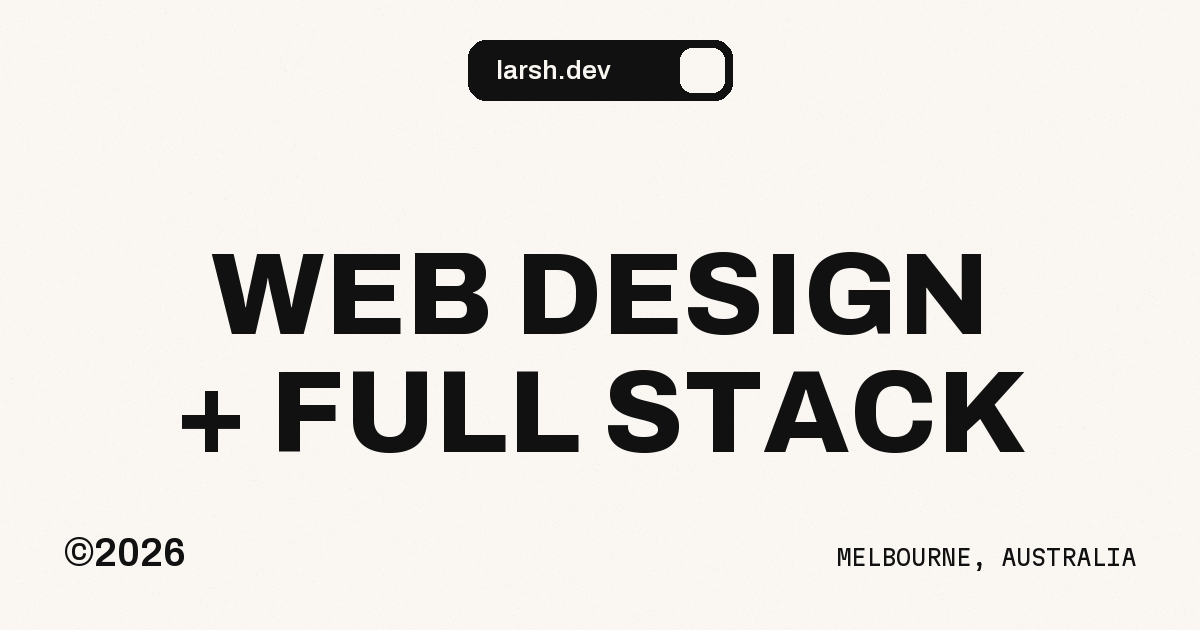
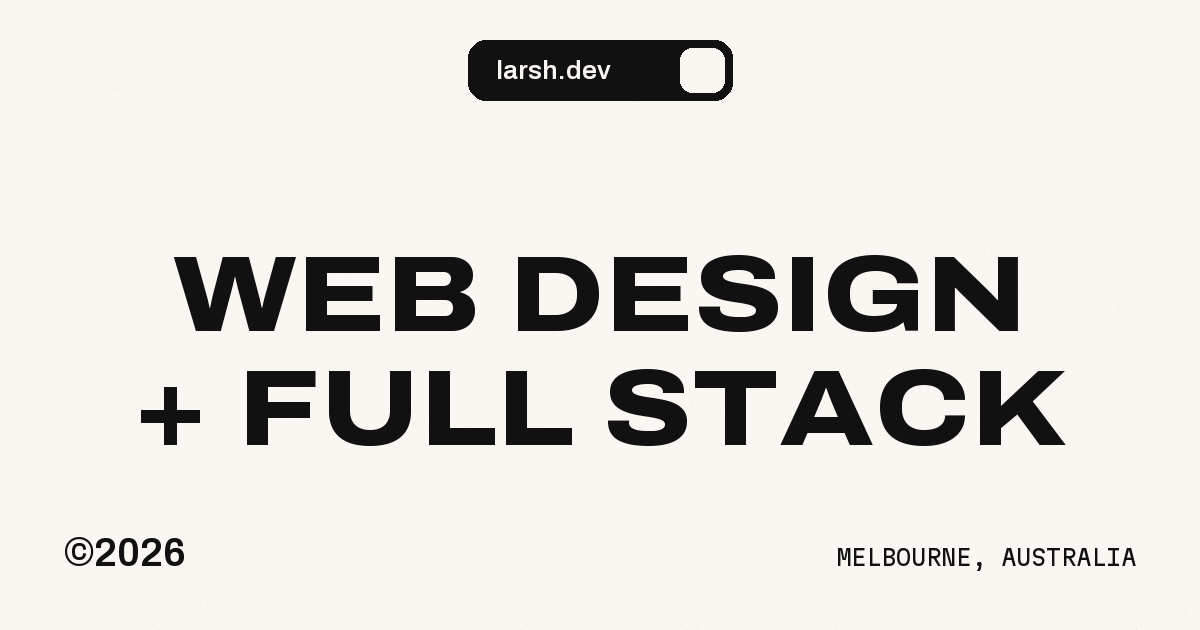
Extend hero to Archivo 118%; hamburger nav, ink scrollbar, chip button on project pages

Changed region(s): [[0.1233, 0.573, 0.8942, 0.7238], [0.1233, 0.3921, 0.8633, 0.5429]]

diff --git a/index.html b/index.html
@@ -33,6 +33,14 @@
 *{margin:0;padding:0;box-sizing:border-box}
 html{scroll-behavior:auto}
 html,body{background:var(--paper)}
+/* page scrollbar: ink pill like the nav, rounded + slightly inset via a transparent
+   border (background-clip keeps the fill inside it, so the border reads as a gap).
+   Scoped to the viewport (html) so inner textareas / code blocks keep default bars.
+   Webkit/Chromium/Safari; Firefox gets colour only (no radius/inset). */
+html::-webkit-scrollbar{width:20px}
+html::-webkit-scrollbar-track{background:transparent}
+html::-webkit-scrollbar-thumb{background:var(--ink);border-radius:12px;border:4px solid transparent;background-clip:padding-box}
+html{scrollbar-color:var(--ink) transparent}
 body{
   font-family:'Archivo',ui-sans-serif,system-ui,sans-serif;
   color:var(--ink);
@@ -70,15 +78,17 @@ a{color:inherit;text-decoration:none}
 .brand{color:var(--paper);font-weight:600;font-size:20px;letter-spacing:-.02em}
 .navbtn{width:44px;height:44px;border:0;border-radius:12px;background:var(--paper);
   color:var(--ink);cursor:pointer;display:grid;place-items:center;font:inherit}
-.navbtn .ic{display:block;width:14px;height:14px;position:relative}
-.navbtn .ic i{position:absolute;left:50%;top:50%;width:3px;height:3px;border-radius:50%;
-  background:var(--ink);translate:-50% -50%;transition:all .3s var(--ease)}
-.navbtn .ic i:nth-child(1){margin-left:-6px}
-.navbtn .ic i:nth-child(3){margin-left:6px}
-.nav.open .navbtn .ic i{width:14px;height:2px;border-radius:1px;margin:0}
-.nav.open .navbtn .ic i:nth-child(1){rotate:45deg}
+/* hamburger → X. Three stacked bars; on open the middle fades and the outer two
+   slide to centre and cross. Only transform/opacity animate, so it stays smooth. */
+.navbtn .ic{display:block;width:16px;height:12px;position:relative}
+.navbtn .ic i{position:absolute;left:0;width:16px;height:2px;border-radius:1px;
+  background:var(--ink);transition:transform .32s var(--ease),opacity .18s var(--ease)}
+.navbtn .ic i:nth-child(1){top:0}
+.navbtn .ic i:nth-child(2){top:5px}
+.navbtn .ic i:nth-child(3){top:10px}
+.nav.open .navbtn .ic i:nth-child(1){transform:translateY(5px) rotate(45deg)}
 .nav.open .navbtn .ic i:nth-child(2){opacity:0}
-.nav.open .navbtn .ic i:nth-child(3){rotate:-45deg}
+.nav.open .navbtn .ic i:nth-child(3){transform:translateY(-5px) rotate(-45deg)}
 .menu{padding:14px 28px 0}
 .menu a.mlink{position:relative;display:flex;align-items:baseline;gap:16px;padding:5px 0;
   color:var(--paper);font-weight:600;font-size:29px;letter-spacing:-.01em;
@@ -109,7 +119,11 @@ a{color:inherit;text-decoration:none}
 .hero{position:relative;min-height:100svh;margin-top:-100svh;
   display:flex;flex-direction:column;justify-content:center;align-items:center}
 .display-wrap{position:relative;margin-top:-6svh}
-.display{color:#fff;mix-blend-mode:difference;text-align:center;
+/* hero display face = Archivo instanced at wdth 118% (wider than Majd's default 100%
+   for more horizontal command), subset to the hero glyphs (~2.5KB). Static single
+   weight — the canvas draws a fixed weight anyway, so nothing dynamic is lost. */
+@font-face{font-family:'Archivo Ext';src:url(/vendor/fonts/archivo-hero-118.woff2) format('woff2');font-weight:800;font-display:block}
+.display{color:#fff;mix-blend-mode:difference;text-align:center;font-family:'Archivo Ext',sans-serif;
   font-weight:800;font-size:clamp(49px,10.3vw,148px);line-height:.92;
   letter-spacing:-.025em;user-select:none;
   transform:translateZ(0)} /* Safari: promote the blended element to its own layer */
@@ -678,7 +692,7 @@ void main(){
       const c2 = t2.getContext('2d');
       const fs = parseFloat(getComputedStyle(display).fontSize) * dpr;
       c2.fillStyle = '#fff';
-      c2.font = `800 ${fs}px Archivo, sans-serif`;
+      c2.font = `800 ${fs}px 'Archivo Ext', sans-serif`;
       c2.textAlign = 'center'; c2.textBaseline = 'alphabetic';
       if ('letterSpacing' in c2) c2.letterSpacing = (fs * -.025).toFixed(1) + 'px';
       const lh = fs * .92;

diff --git a/site.css b/site.css
@@ -14,6 +14,14 @@
 *{margin:0;padding:0;box-sizing:border-box}
 html{scroll-behavior:auto}
 html,body{background:var(--paper)}
+/* page scrollbar: ink pill like the nav, rounded + slightly inset via a transparent
+   border (background-clip keeps the fill inside it, so the border reads as a gap).
+   Scoped to the viewport (html) so inner textareas / code blocks keep default bars.
+   Webkit/Chromium/Safari; Firefox gets colour only (no radius/inset). */
+html::-webkit-scrollbar{width:20px}
+html::-webkit-scrollbar-track{background:transparent}
+html::-webkit-scrollbar-thumb{background:var(--ink);border-radius:12px;border:4px solid transparent;background-clip:padding-box}
+html{scrollbar-color:var(--ink) transparent}
 body{font-family:'Archivo',ui-sans-serif,system-ui,sans-serif;color:var(--ink);
   -webkit-font-smoothing:antialiased;overflow-x:clip}
 .mono{font-family:'Martian Mono',ui-monospace,monospace}
@@ -39,15 +47,17 @@ a{color:inherit;text-decoration:none}
 .brand{color:var(--paper);font-weight:600;font-size:20px;letter-spacing:-.02em}
 .navbtn{width:44px;height:44px;border:0;border-radius:12px;background:var(--paper);
   color:var(--ink);cursor:pointer;display:grid;place-items:center;font:inherit}
-.navbtn .ic{display:block;width:14px;height:14px;position:relative}
-.navbtn .ic i{position:absolute;left:50%;top:50%;width:3px;height:3px;border-radius:50%;
-  background:var(--ink);translate:-50% -50%;transition:all .3s var(--ease)}
-.navbtn .ic i:nth-child(1){margin-left:-6px}
-.navbtn .ic i:nth-child(3){margin-left:6px}
-.nav.open .navbtn .ic i{width:14px;height:2px;border-radius:1px;margin:0}
-.nav.open .navbtn .ic i:nth-child(1){rotate:45deg}
+/* hamburger → X. Three stacked bars; on open the middle fades and the outer two
+   slide to centre and cross. Only transform/opacity animate, so it stays smooth. */
+.navbtn .ic{display:block;width:16px;height:12px;position:relative}
+.navbtn .ic i{position:absolute;left:0;width:16px;height:2px;border-radius:1px;
+  background:var(--ink);transition:transform .32s var(--ease),opacity .18s var(--ease)}
+.navbtn .ic i:nth-child(1){top:0}
+.navbtn .ic i:nth-child(2){top:5px}
+.navbtn .ic i:nth-child(3){top:10px}
+.nav.open .navbtn .ic i:nth-child(1){transform:translateY(5px) rotate(45deg)}
 .nav.open .navbtn .ic i:nth-child(2){opacity:0}
-.nav.open .navbtn .ic i:nth-child(3){rotate:-45deg}
+.nav.open .navbtn .ic i:nth-child(3){transform:translateY(-5px) rotate(-45deg)}
 .menu{padding:14px 28px 0}
 .menu a.mlink{position:relative;display:flex;align-items:baseline;gap:16px;padding:5px 0;
   color:var(--paper);font-weight:600;font-size:29px;letter-spacing:-.01em;

diff --git a/project.html b/project.html
@@ -8,7 +8,7 @@
 <meta name="description" content="A project by Lars Holmström.">
 <link rel="icon" href="/favicon.svg" type="image/svg+xml">
 <link rel="stylesheet" href="/vendor/fonts.css">
-<link rel="stylesheet" href="./site.css?v=2">
+<link rel="stylesheet" href="./site.css?v=3">
 <style>
 /* project detail page-specific */
 .proj-head{padding:150px 0 0}
@@ -41,8 +41,6 @@
 .pairimg{border-radius:16px;overflow:hidden;aspect-ratio:582/368}
 .more{padding:60px 0 100px;border-top:1px solid var(--hair)}
 .more .h2row{margin-bottom:40px}
-.more .alink{font-weight:600;font-size:17px;text-decoration:underline;text-underline-offset:4px}
-.more .alink:hover{text-decoration-thickness:2px}
 @media (max-width:1023px){
   .proj-head{padding:130px 0 0}
   .proj-head .row{grid-template-columns:1fr;gap:16px;align-items:start}
@@ -200,7 +198,7 @@
   const idx = BUILD.indexOf(id);
   const more = [BUILD[(idx + 1) % BUILD.length], BUILD[(idx + 2) % BUILD.length]];
   html += `<section class="more"><div class="h2row"><h2>More projects</h2>
-    <a class="alink" href="./work.html">All projects&nbsp;&nbsp;→</a></div><div class="pgrid">`;
+    <a class="chip sm" href="./work.html"><span class="t">All projects</span><span class="a">→</span></a></div><div class="pgrid">`;
   more.forEach(mid => {
     const mp = byId[mid], c = CARD[mid];
     html += `<a class="card" href="./project.html?id=${mid}" data-r="pop">
@@ -214,7 +212,7 @@
 })();
 </script>
 <script src="/vendor/lenis.min.js"></script>
-<script src="./site.js?v=2"></script>
+<script src="./site.js?v=3"></script>
 <script src="/analytics.js"></script>
 </body>
 </html>

diff --git a/blog/building-swatch-or-a-colour-problem-i-gave-myself.html b/blog/building-swatch-or-a-colour-problem-i-gave-myself.html
@@ -22,7 +22,7 @@
 <script type="application/ld+json">{"@context": "https://schema.org", "@type": "BlogPosting", "headline": "Building Swatch, or: a colour problem I gave myself", "description": "How a lapsed landscape-photography habit, a grudge against the Adobe subscription tax, and one app redesign turned into a free single-file palette tool.", "datePublished": "2026-06-24", "dateModified": "2026-06-24", "author": {"@type": "Person", "name": "Lars Holmström", "url": "https://larsh.dev/"}, "publisher": {"@type": "Person", "name": "Lars Holmström"}, "url": "https://larsh.dev/blog/building-swatch-or-a-colour-problem-i-gave-myself.html", "mainEntityOfPage": "https://larsh.dev/blog/building-swatch-or-a-colour-problem-i-gave-myself.html", "image": "https://larsh.dev/og.png", "keywords": "colour, design, photography, side-project, web"}</script>
 <link rel="icon" type="image/svg+xml" href="/favicon.svg" />
 <link rel="stylesheet" href="/vendor/fonts.css" />
-<link rel="stylesheet" href="../site.css?v=2" />
+<link rel="stylesheet" href="../site.css?v=3" />
 <style>
 /* blog — layers on top of site.css (paper/ink tokens, nav, footer, grain) */
 .blog{padding-top:150px}
@@ -332,7 +332,7 @@ span.linenos.special { color: #000000; background-color: #ffffc0; padding-left: 
 <div class="endspace" aria-hidden="true"></div>
 <div class="toast mono" id="toast" role="status"></div>
 <script src="/vendor/lenis.min.js"></script>
-<script src="../site.js?v=2"></script>
+<script src="../site.js?v=3"></script>
 <script>
 (function(){
   if(window.matchMedia('(prefers-reduced-motion: reduce)').matches) return;

diff --git a/blog/i-built-a-whole-tool-to-avoid-formatting-code-blocks.html b/blog/i-built-a-whole-tool-to-avoid-formatting-code-blocks.html
@@ -22,7 +22,7 @@
 <script type="application/ld+json">{"@context": "https://schema.org", "@type": "BlogPosting", "headline": "I built a whole tool to avoid formatting code blocks", "description": "A short story about solving a thirty-second problem with an afternoon of work.", "datePublished": "2026-06-06", "dateModified": "2026-06-06", "author": {"@type": "Person", "name": "Lars Holmström", "url": "https://larsh.dev/"}, "publisher": {"@type": "Person", "name": "Lars Holmström"}, "url": "https://larsh.dev/blog/i-built-a-whole-tool-to-avoid-formatting-code-blocks.html", "mainEntityOfPage": "https://larsh.dev/blog/i-built-a-whole-tool-to-avoid-formatting-code-blocks.html", "image": "https://larsh.dev/og.png", "keywords": "side projects, typescript, tools"}</script>
 <link rel="icon" type="image/svg+xml" href="/favicon.svg" />
 <link rel="stylesheet" href="/vendor/fonts.css" />
-<link rel="stylesheet" href="../site.css?v=2" />
+<link rel="stylesheet" href="../site.css?v=3" />
 <style>
 /* blog — layers on top of site.css (paper/ink tokens, nav, footer, grain) */
 .blog{padding-top:150px}
@@ -311,7 +311,7 @@ npm<span class="w"> </span>i<span class="w"> </span>markdown-it<span class="w"> 
 <div class="endspace" aria-hidden="true"></div>
 <div class="toast mono" id="toast" role="status"></div>
 <script src="/vendor/lenis.min.js"></script>
-<script src="../site.js?v=2"></script>
+<script src="../site.js?v=3"></script>
 <script>
 (function(){
   if(window.matchMedia('(prefers-reduced-motion: reduce)').matches) return;

diff --git a/blog/index.html b/blog/index.html
@@ -18,7 +18,7 @@
 <script type="application/ld+json">{"@context": "https://schema.org", "@type": "Blog", "name": "Notes — Lars Holmström", "description": "Engineering write-ups and debugging war stories by Lars Holmström — how the privacy-first tools on larsh.dev actually got built.", "url": "https://larsh.dev/blog/", "author": {"@type": "Person", "name": "Lars Holmström", "url": "https://larsh.dev/"}, "blogPost": [{"@type": "BlogPosting", "headline": "Building Swatch, or: a colour problem I gave myself", "url": "https://larsh.dev/blog/building-swatch-or-a-colour-problem-i-gave-myself.html", "datePublished": "2026-06-24"}, {"@type": "BlogPosting", "headline": "The VPN Post Nobody Paid Me to Write", "url": "https://larsh.dev/blog/the-vpn-post-nobody-paid-me-to-write.html", "datePublished": "2026-06-09"}, {"@type": "BlogPosting", "headline": "I built a whole tool to avoid formatting code blocks", "url": "https://larsh.dev/blog/i-built-a-whole-tool-to-avoid-formatting-code-blocks.html", "datePublished": "2026-06-06"}, {"@type": "BlogPosting", "headline": "The Bug That Only Existed in Spanish", "url": "https://larsh.dev/blog/the-bug-that-only-existed-in-spanish.html", "datePublished": "2026-06-02"}]}</script>
 <link rel="icon" type="image/svg+xml" href="/favicon.svg" />
 <link rel="stylesheet" href="/vendor/fonts.css" />
-<link rel="stylesheet" href="../site.css?v=2" />
+<link rel="stylesheet" href="../site.css?v=3" />
 <style>
 /* blog — layers on top of site.css (paper/ink tokens, nav, footer, grain) */
 .blog{padding-top:150px}
@@ -286,7 +286,7 @@ span.linenos.special { color: #000000; background-color: #ffffc0; padding-left: 
 <div class="endspace" aria-hidden="true"></div>
 <div class="toast mono" id="toast" role="status"></div>
 <script src="/vendor/lenis.min.js"></script>
-<script src="../site.js?v=2"></script>
+<script src="../site.js?v=3"></script>
 
 <script src="/analytics.js"></script>
 </body>

diff --git a/blog/the-bug-that-only-existed-in-spanish.html b/blog/the-bug-that-only-existed-in-spanish.html
@@ -22,7 +22,7 @@
 <script type="application/ld+json">{"@context": "https://schema.org", "@type": "BlogPosting", "headline": "The Bug That Only Existed in Spanish", "description": "How browser auto-translation white-screened my app — and why I spent the first hour blaming an innocent PNG", "datePublished": "2026-06-02", "dateModified": "2026-06-02", "author": {"@type": "Person", "name": "Lars Holmström", "url": "https://larsh.dev/"}, "publisher": {"@type": "Person", "name": "Lars Holmström"}, "url": "https://larsh.dev/blog/the-bug-that-only-existed-in-spanish.html", "mainEntityOfPage": "https://larsh.dev/blog/the-bug-that-only-existed-in-spanish.html", "image": "https://larsh.dev/og.png", "keywords": "debugging, react, nextjs, war-story"}</script>
 <link rel="icon" type="image/svg+xml" href="/favicon.svg" />
 <link rel="stylesheet" href="/vendor/fonts.css" />
-<link rel="stylesheet" href="../site.css?v=2" />
+<link rel="stylesheet" href="../site.css?v=3" />
 <style>
 /* blog — layers on top of site.css (paper/ink tokens, nav, footer, grain) */
 .blog{padding-top:150px}
@@ -398,7 +398,7 @@ The node to be removed is not a child of this node.
 <div class="endspace" aria-hidden="true"></div>
 <div class="toast mono" id="toast" role="status"></div>
 <script src="/vendor/lenis.min.js"></script>
-<script src="../site.js?v=2"></script>
+<script src="../site.js?v=3"></script>
 <script>
 (function(){
   if(window.matchMedia('(prefers-reduced-motion: reduce)').matches) return;

diff --git a/blog/the-vpn-post-nobody-paid-me-to-write.html b/blog/the-vpn-post-nobody-paid-me-to-write.html
@@ -22,7 +22,7 @@
 <script type="application/ld+json">{"@context": "https://schema.org", "@type": "BlogPosting", "headline": "The VPN Post Nobody Paid Me to Write", "description": "No affiliate links, no 'top pick' that mysteriously pays the highest commission. Just what these things actually do, what they don't, and whether you need one.", "datePublished": "2026-06-09", "dateModified": "2026-06-09", "author": {"@type": "Person", "name": "Lars Holmström", "url": "https://larsh.dev/"}, "publisher": {"@type": "Person", "name": "Lars Holmström"}, "url": "https://larsh.dev/blog/the-vpn-post-nobody-paid-me-to-write.html", "mainEntityOfPage": "https://larsh.dev/blog/the-vpn-post-nobody-paid-me-to-write.html", "image": "https://larsh.dev/og.png", "keywords": "privacy, vpn, security, opinion"}</script>
 <link rel="icon" type="image/svg+xml" href="/favicon.svg" />
 <link rel="stylesheet" href="/vendor/fonts.css" />
-<link rel="stylesheet" href="../site.css?v=2" />
+<link rel="stylesheet" href="../site.css?v=3" />
 <style>
 /* blog — layers on top of site.css (paper/ink tokens, nav, footer, grain) */
 .blog{padding-top:150px}
@@ -416,7 +416,7 @@ span.linenos.special { color: #000000; background-color: #ffffc0; padding-left: 
 <div class="endspace" aria-hidden="true"></div>
 <div class="toast mono" id="toast" role="status"></div>
 <script src="/vendor/lenis.min.js"></script>
-<script src="../site.js?v=2"></script>
+<script src="../site.js?v=3"></script>
 <script>
 (function(){
   if(window.matchMedia('(prefers-reduced-motion: reduce)').matches) return;

diff --git a/privacy/index.html b/privacy/index.html
@@ -10,7 +10,7 @@
 <link rel="canonical" href="https://larsh.dev/privacy/" />
 <link rel="icon" type="image/svg+xml" href="/favicon.svg" />
 <link rel="stylesheet" href="/vendor/fonts.css" />
-<link rel="stylesheet" href="../site.css?v=2" />
+<link rel="stylesheet" href="../site.css?v=3" />
 <style>
 .legal{position:relative;width:min(760px,calc(100vw - 48px));margin:0 auto;padding:150px 0 60px}
 .mono{font-family:'Martian Mono',ui-monospace,monospace}
@@ -171,7 +171,7 @@
 <div class="toast mono" id="toast" role="status"></div>
 
 <script src="/vendor/lenis.min.js"></script>
-<script src="../site.js?v=2"></script>
+<script src="../site.js?v=3"></script>
 <script src="../analytics.js"></script>
 </body>
 </html>

diff --git a/resume/index.html b/resume/index.html
@@ -13,7 +13,7 @@
 <link rel="canonical" href="https://larsh.dev/resume/" />
 <link rel="icon" type="image/svg+xml" href="/favicon.svg" />
 <link rel="stylesheet" href="/vendor/fonts.css" />
-<link rel="stylesheet" href="../site.css?v=2" />
+<link rel="stylesheet" href="../site.css?v=3" />
 <script type="application/ld+json">{"@context":"https://schema.org","@type":"ProfilePage","mainEntity":{"@type":"Person","name":"Lars Holmström","url":"https://larsh.dev/","jobTitle":"Web designer & full-stack developer","address":{"@type":"PostalAddress","addressLocality":"Melbourne","addressCountry":"AU"},"sameAs":["https://x.com/larsitodev","https://github.com/lars-1987"]}}</script>
 <style>
 .resume{padding-top:150px}
@@ -322,7 +322,7 @@
 })();
 </script>
 <script src="/vendor/lenis.min.js"></script>
-<script src="../site.js?v=2"></script>
+<script src="../site.js?v=3"></script>
 <script src="../analytics.js"></script>
 </body>
 </html>

diff --git a/work.html b/work.html
@@ -16,7 +16,7 @@
 <meta name="twitter:image" content="https://larsh.dev/og.png">
 <link rel="icon" href="/favicon.svg" type="image/svg+xml">
 <link rel="stylesheet" href="/vendor/fonts.css">
-<link rel="stylesheet" href="./site.css?v=2">
+<link rel="stylesheet" href="./site.css?v=3">
 <style>
 /* work index page-specific */
 .work-head{padding:150px 0 40px}
@@ -152,7 +152,7 @@
 <div class="toast mono" id="toast" role="status"></div>
 
 <script src="/vendor/lenis.min.js"></script>
-<script src="./site.js?v=2"></script>
+<script src="./site.js?v=3"></script>
 <script src="/analytics.js"></script>
 </body>
 </html>

diff --git a/build-og.py b/build-og.py
@@ -17,6 +17,7 @@ def _ttf(src, out, axes=None):
     f.save(p)
     return p
 ARCHIVO_800 = _ttf("vendor/fonts/archivo-100-900-latin.woff2", "archivo-800.ttf", {"wght": 800, "wdth": 100})
+ARCHIVO_HERO = _ttf("vendor/fonts/archivo-100-900-latin.woff2", "archivo-hero.ttf", {"wght": 800, "wdth": 118})  # matches the extended site hero
 MONO = _ttf("vendor/fonts/martian-mono-300-latin.woff2", "mono.ttf")
 ARCHIVO_600 = _ttf("vendor/fonts/archivo-100-900-latin.woff2", "archivo-600.ttf", {"wght": 600, "wdth": 100})
 
@@ -51,13 +52,15 @@ draw.text((px0 + 28, py0 + ph / 2), pt, font=pill_font, fill=PAPER, anchor="lm")
 chip = ph - 16
 draw.rounded_rectangle((px0 + pw - chip - 8, py0 + 8, px0 + pw - 8, py0 + 8 + chip), radius=12, fill=PAPER)
 
-# headline, centered (the hero line)
-h_font = ImageFont.truetype(ARCHIVO_800, 116)
+# headline, centered (the hero line) — extended cut to match the site hero
+h_font = ImageFont.truetype(ARCHIVO_HERO, 108)
 def centered(text, y):
     tw = draw.textlength(text, font=h_font)
     draw.text(((W - tw) / 2, y), text, font=h_font, fill=INK)
-centered("WEB DESIGN", 232)
-centered("+ FULL STACK", 350)
+    return tw
+_w1 = centered("WEB DESIGN", 236)
+_w2 = centered("+ FULL STACK", 350)
+print(f"headline widths @wdth118/108px: WEB DESIGN={_w1:.0f}, + FULL STACK={_w2:.0f} (card={W}, safe<1120)")
 
 # corner captions, like the hero
 cap_font = ImageFont.truetype(ARCHIVO_600, 40)